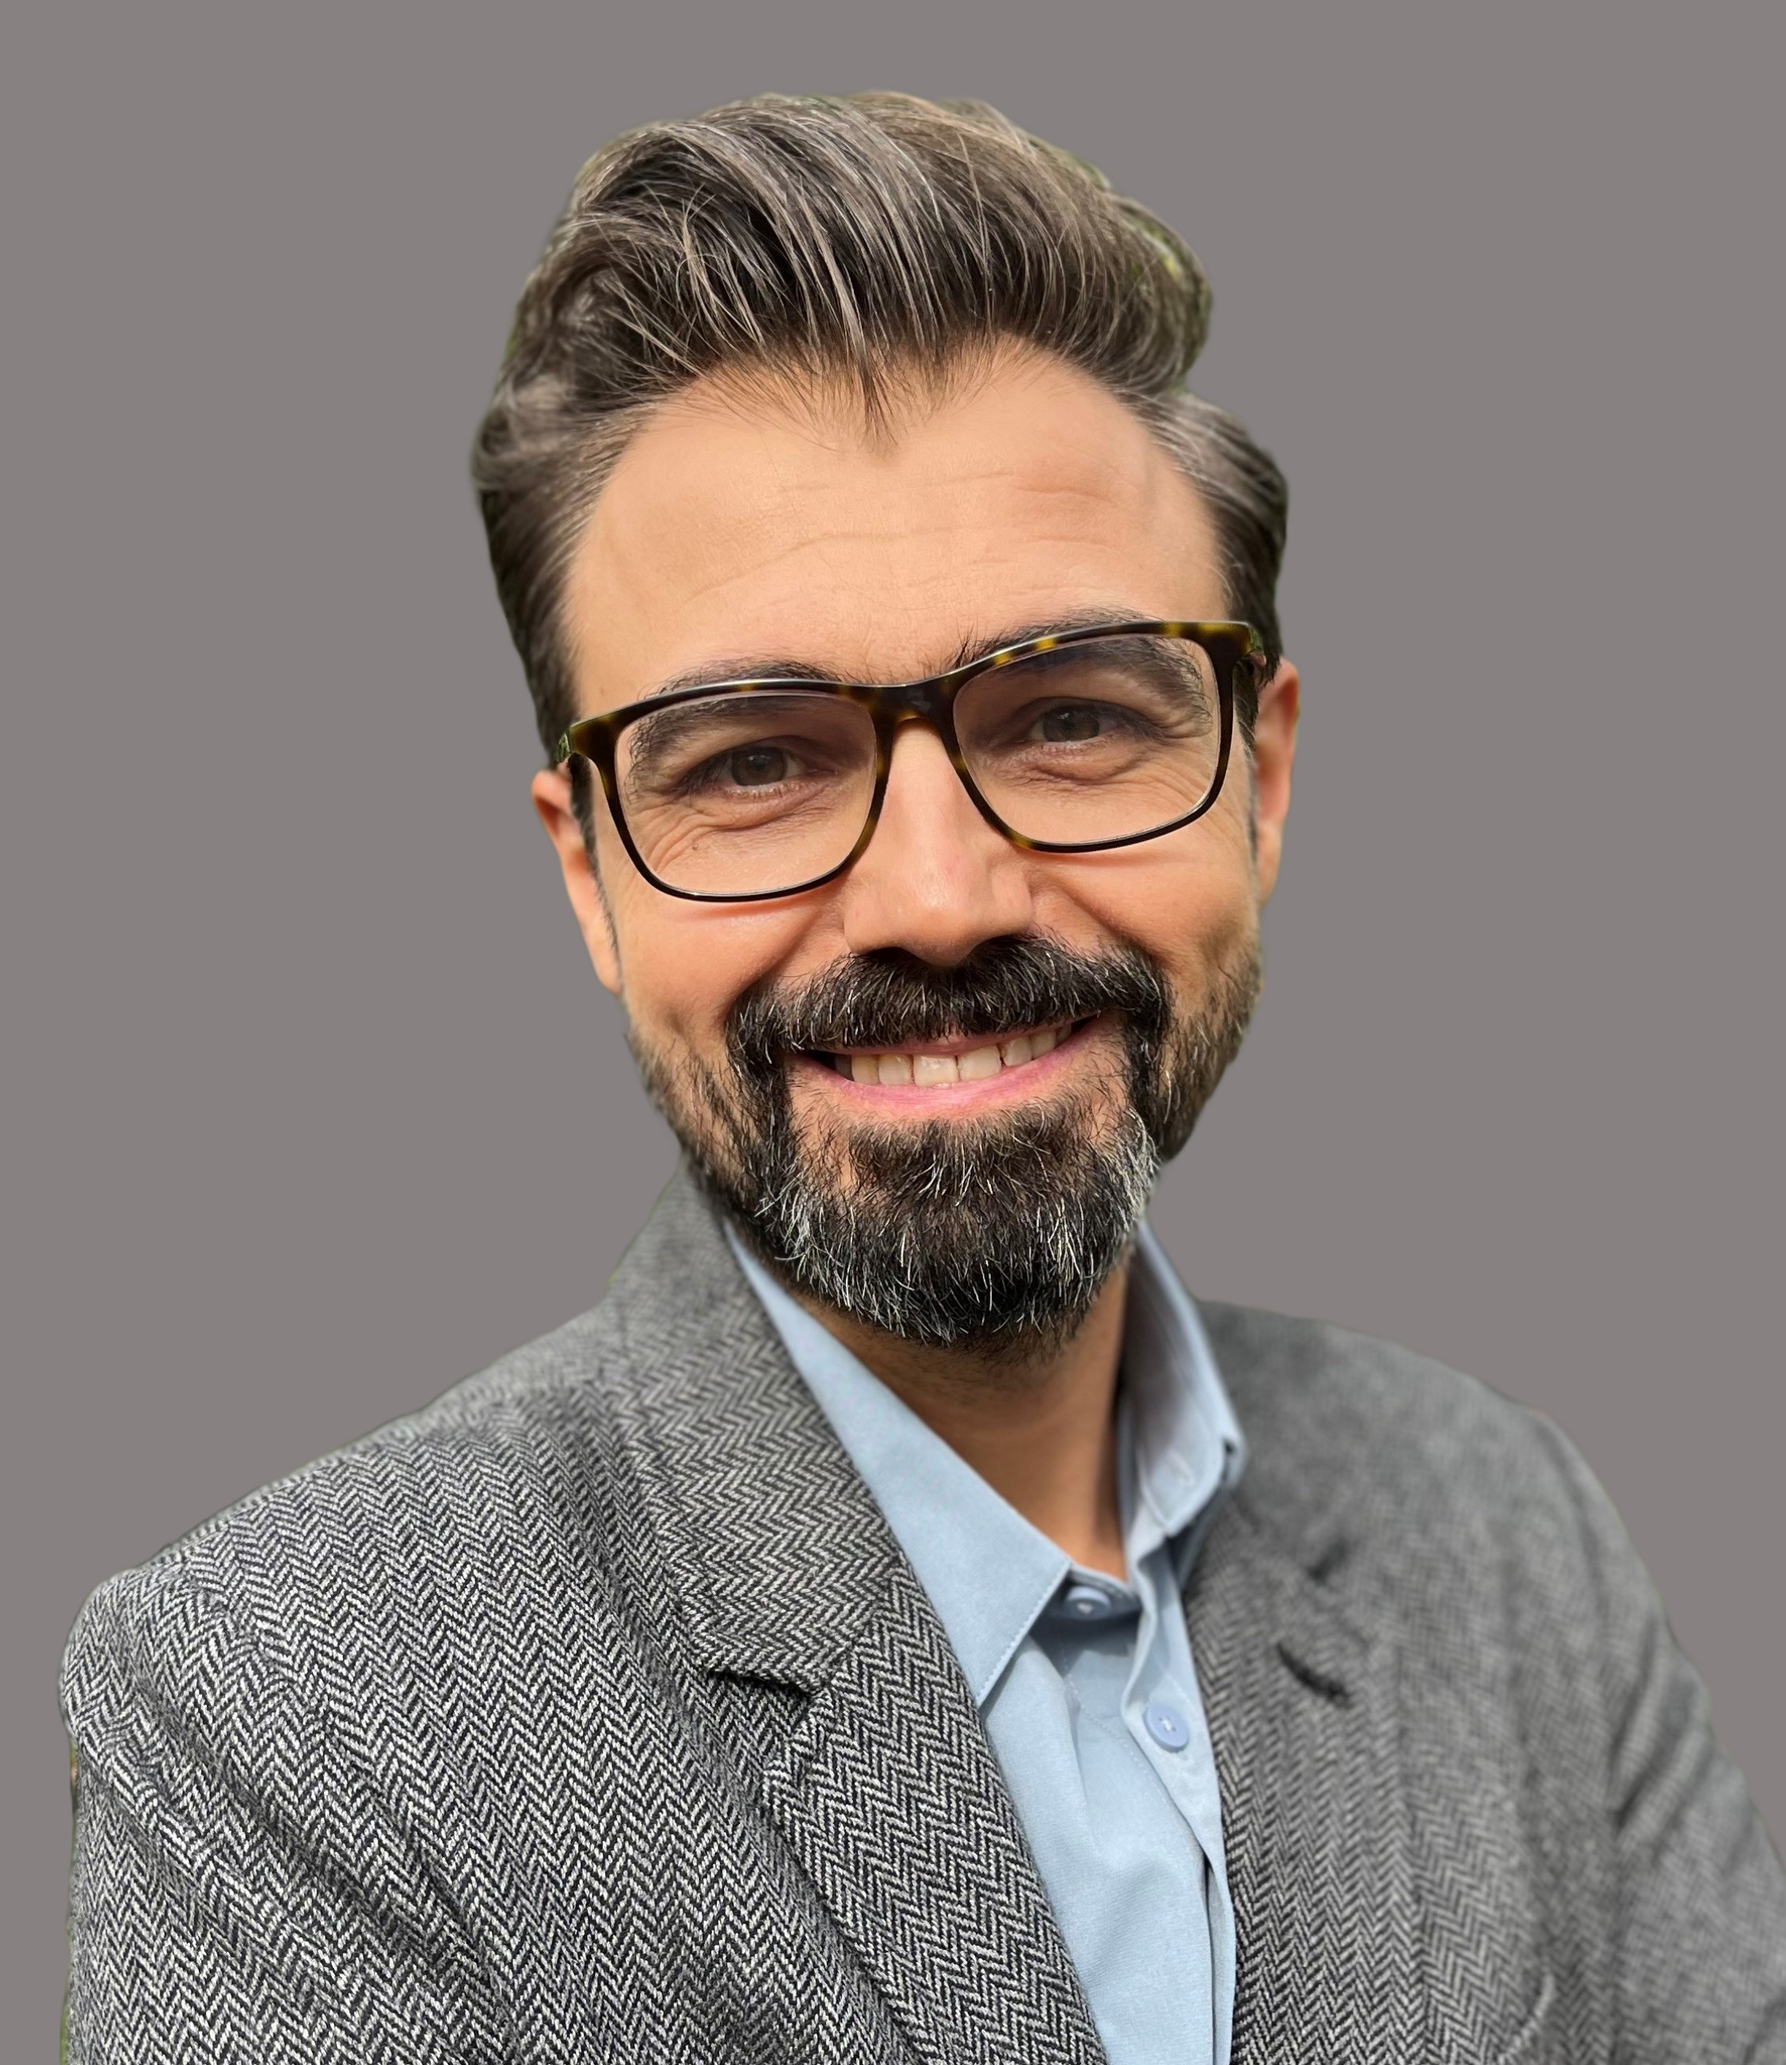
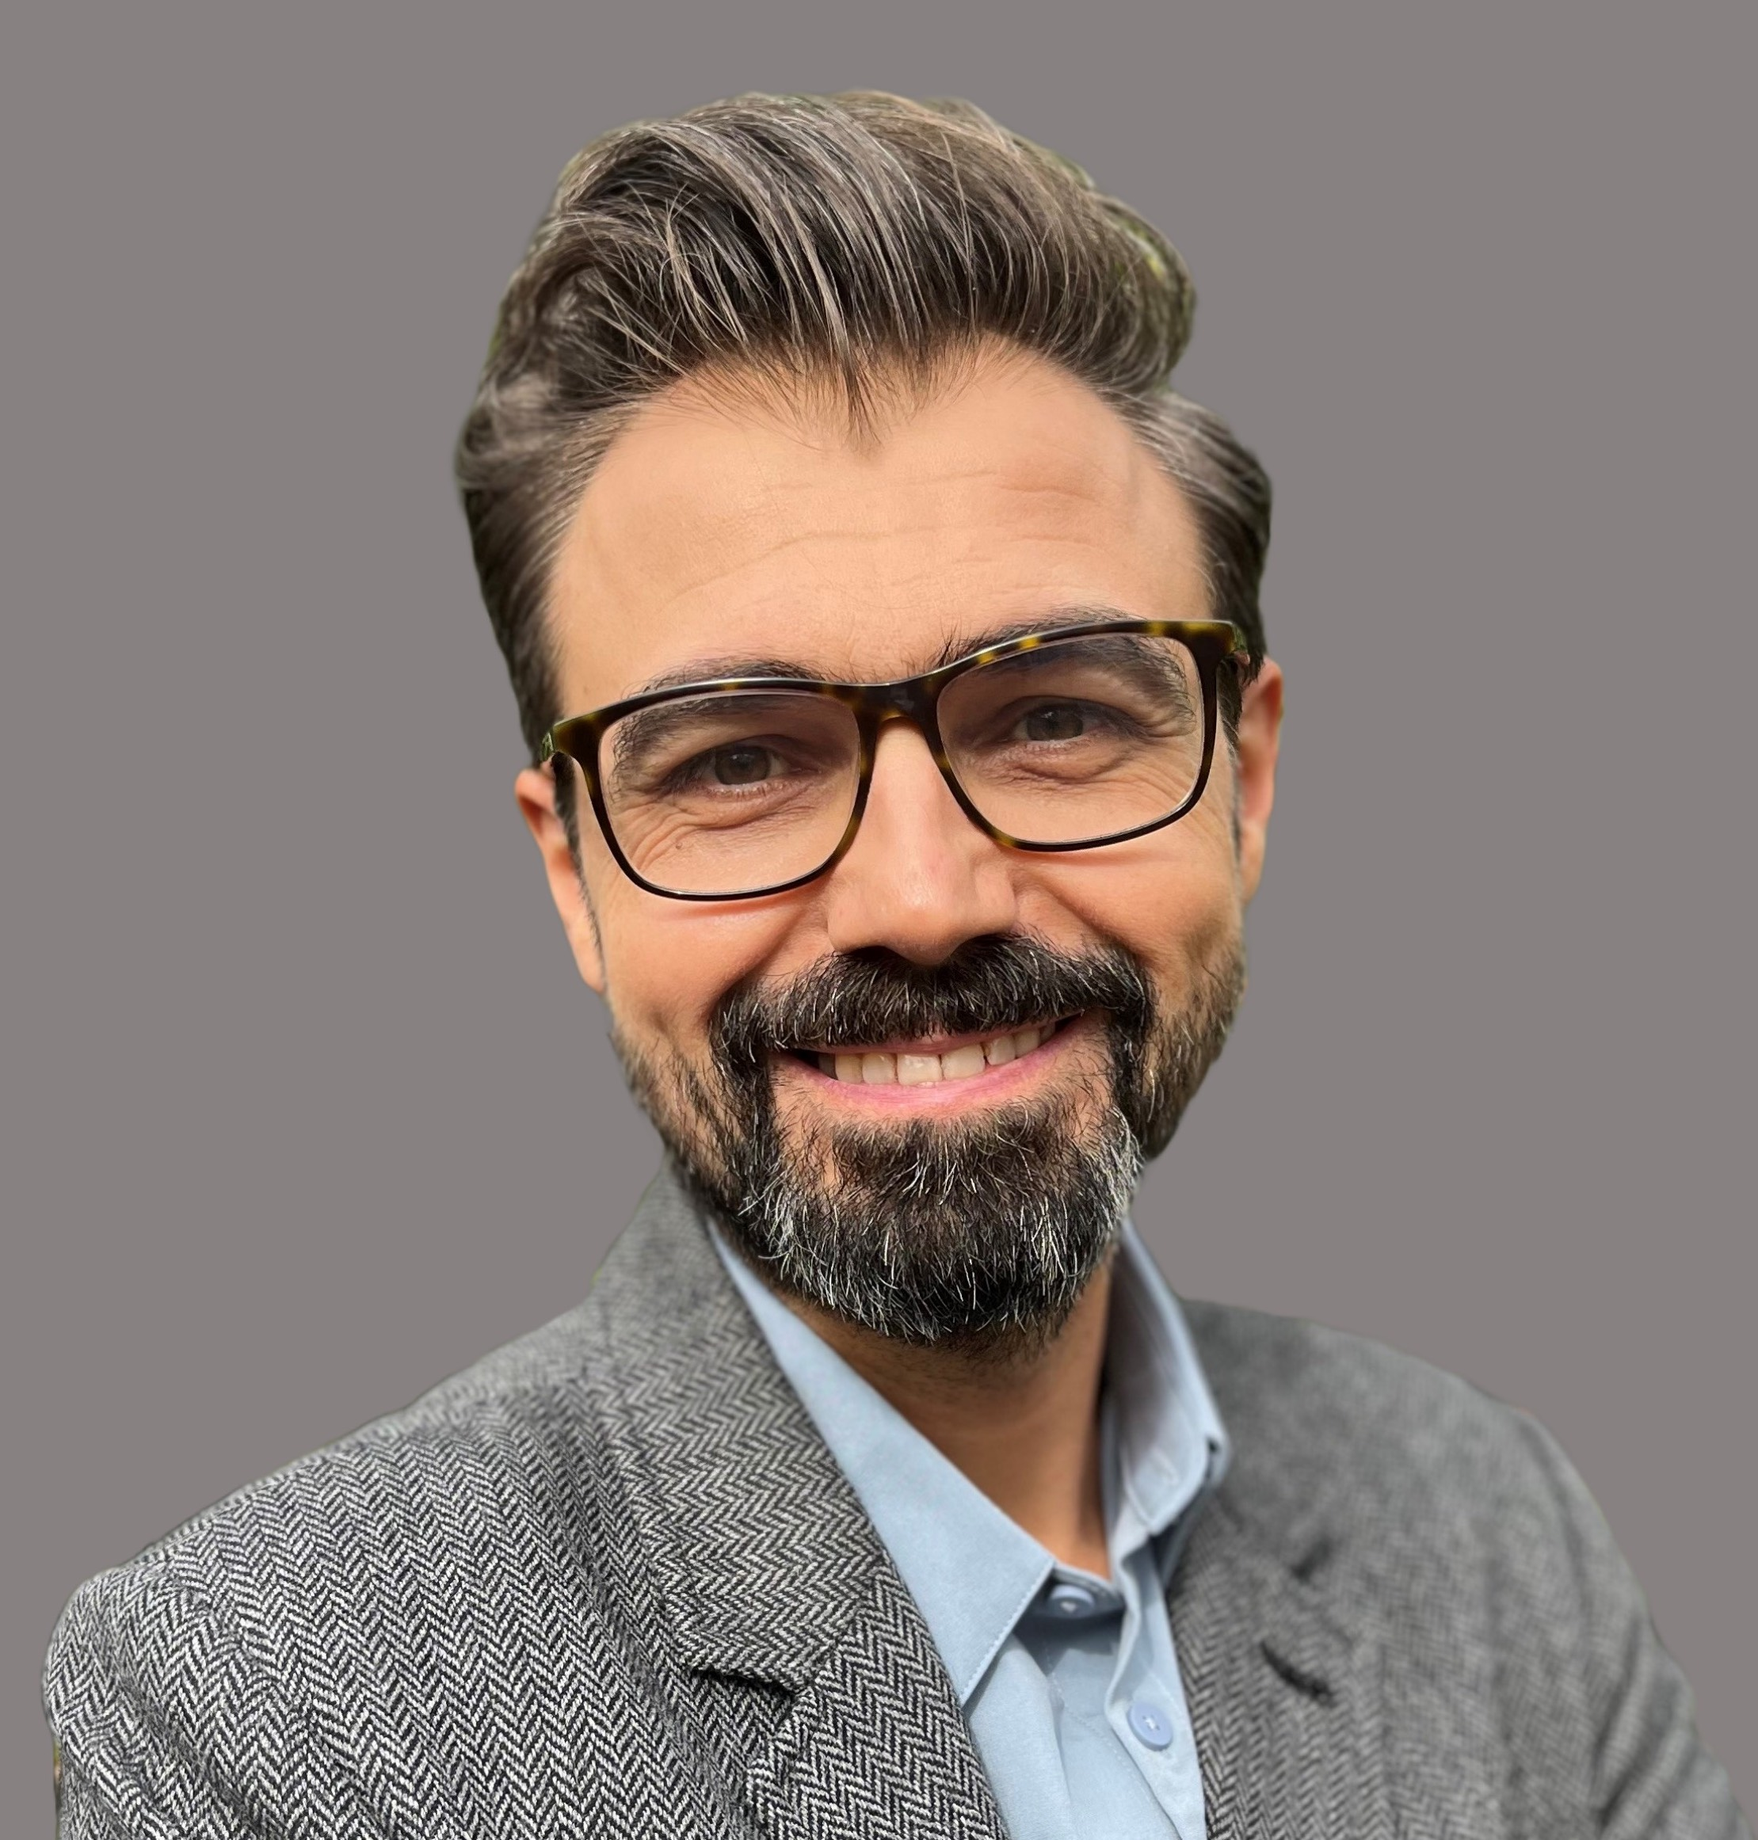
website update

diff --git a/talk/data-sharing-rct/index.html b/talk/data-sharing-rct/index.html
@@ -953,7 +953,7 @@
     <div class="media author-card content-widget-hr">
       
         
-        <img class="avatar mr-3 avatar-circle" src="/author/valentin-danchev/avatar_hu7a22786c9df31446dde3522477517aad_1009788_270x270_fill_q90_lanczos_center.jpeg" alt="Valentin Danchev">
+        <img class="avatar mr-3 avatar-circle" src="/author/valentin-danchev/avatar_hu7a22786c9df31446dde3522477517aad_763085_270x270_fill_q90_lanczos_center.jpeg" alt="Valentin Danchev">
       
 
       <div class="media-body">

diff --git a/talk/prism/index.html b/talk/prism/index.html
@@ -951,7 +951,7 @@
     <div class="media author-card content-widget-hr">
       
         
-        <img class="avatar mr-3 avatar-circle" src="/author/valentin-danchev/avatar_hu7a22786c9df31446dde3522477517aad_1009788_270x270_fill_q90_lanczos_center.jpeg" alt="Valentin Danchev">
+        <img class="avatar mr-3 avatar-circle" src="/author/valentin-danchev/avatar_hu7a22786c9df31446dde3522477517aad_763085_270x270_fill_q90_lanczos_center.jpeg" alt="Valentin Danchev">
       
 
       <div class="media-body">

diff --git a/author/valentin-danchev/index.html b/author/valentin-danchev/index.html
@@ -688,7 +688,7 @@
 
       
       
-      <img class="avatar avatar-circle" src="/author/valentin-danchev/avatar_hu7a22786c9df31446dde3522477517aad_1009788_270x270_fill_q90_lanczos_center.jpeg" alt="Valentin Danchev">
+      <img class="avatar avatar-circle" src="/author/valentin-danchev/avatar_hu7a22786c9df31446dde3522477517aad_763085_270x270_fill_q90_lanczos_center.jpeg" alt="Valentin Danchev">
       
 
       <div class="portrait-title">

diff --git a/index.html b/index.html
@@ -759,7 +759,7 @@
 
       
       
-      <img class="avatar avatar-circle" src="/author/valentin-danchev/avatar_hu7a22786c9df31446dde3522477517aad_1009788_270x270_fill_q90_lanczos_center.jpeg" alt="Valentin Danchev">
+      <img class="avatar avatar-circle" src="/author/valentin-danchev/avatar_hu7a22786c9df31446dde3522477517aad_763085_270x270_fill_q90_lanczos_center.jpeg" alt="Valentin Danchev">
       
 
       <div class="portrait-title">
